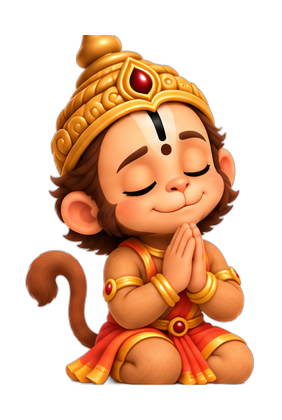
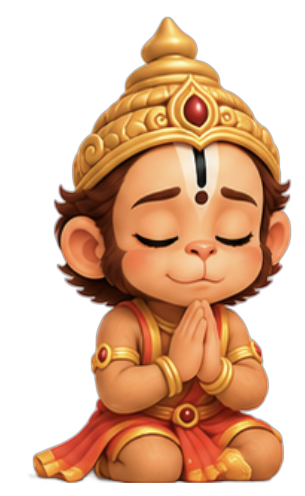
feat(stage1): Wire real chibi art into the Great Leap
Replace placeholder vector poses with the generated chibi Hanuman
sprite library (24 poses) plus the dawn-ocean background and the
Stage-1 lesson reward card. The scene now walks an 11-pose emotional
journey (prayer -> devotion -> clarity -> ... -> flight) as japa count
rises, with a real background that scrolls down on each climb.

Checkpoint before the premium-art polish pass.

diff --git a/game/src/Stage1Scene.js b/game/src/Stage1Scene.js
@@ -27,11 +27,26 @@ export class Stage1Scene extends Phaser.Scene {
     // a vector hero + gradient sky + text cards when a file is absent. We swallow
     // loader 404s so the console stays clean until real art is dropped in.
     this.load.image('s1_bg', ART + 'bg_greatleap.jpg');
-    this.load.image('h_idle', 'art/hanuman/idle_front.png');
-    this.load.image('h_jump', 'art/hanuman/jumping.png');
-    this.load.image('h_fly', 'art/hanuman/flying.png');
-    this.load.image('h_happy', 'art/hanuman/expr_happy.png');
-    this.load.image('s1_card', ART + 'summary_card.jpg');
+    // 10 expressive Stage-1 poses (the emotional journey of the Great Leap)
+    this.load.image('p_remember', 'art/hanuman/remembering_rama.png');
+    this.load.image('p_devotion', 'art/hanuman/devotion.png');
+    this.load.image('p_clarity', 'art/hanuman/clarity.png');
+    this.load.image('p_confidence', 'art/hanuman/confidence.png');
+    this.load.image('p_surrender', 'art/hanuman/surrender.png');
+    this.load.image('p_thinking', 'art/hanuman/thinking.png');
+    this.load.image('p_inspiration', 'art/hanuman/inspiration.png');
+    this.load.image('p_leaping', 'art/hanuman/leaping.png');
+    this.load.image('p_ready', 'art/hanuman/ready.png');
+    this.load.image('p_thinkrama', 'art/hanuman/thinking_of_rama.png');
+    // additional expression poses (broader library for the journey + reactions)
+    this.load.image('p_happy', 'art/hanuman/happy.png');
+    this.load.image('p_excited', 'art/hanuman/excited.png');
+    this.load.image('p_winking', 'art/hanuman/winking.png');
+    this.load.image('p_running', 'art/hanuman/running.png');
+    this.load.image('p_flying', 'art/hanuman/flying.png');
+    this.load.image('p_greeting', 'art/hanuman/greeting.png');
+    this.load.image('p_victory', 'art/hanuman/victory.png');
+    this.load.image('p_pointing', 'art/hanuman/pointing.png');
     this.load.image('s1_lesson', 'art/lessons/lesson1.jpg');
     this._missing = new Set();
     this.load.on('loaderror', (file) => { this._missing.add(file.key); });
@@ -58,9 +73,8 @@ export class Stage1Scene extends Phaser.Scene {
         this.bgTiles.push(img);
       }
       this.bgTileH = this.bgTiles[0].displayHeight;
-      // gentle dark vignette top+bottom so HUD text stays readable
-      this.add.rectangle(W / 2, 70, W, 200, 0x0a0620, 0.28).setDepth(1);
-      this.add.rectangle(W / 2, H - 90, W, 220, 0x0a0620, 0.34).setDepth(1);
+      // Full-bleed: NO dark overlay bands — the title + HUD pills carry their own
+      // readability (soft frosted backing), so the art shows edge to edge.
     } else {
       // fallback gradient sky
       const g = this.add.graphics().setDepth(0);
@@ -76,16 +90,23 @@ export class Stage1Scene extends Phaser.Scene {
 
     // --- HERO: flying Hanuman sprite (or vector fallback) ---
     this.baseY = H * 0.60;
-    if (haveHero) {
+    // The emotional journey of the Great Leap, told across the 11 japa:
+    // prayer → devotion → clarity → confidence → excitement → readiness → flight.
+    this.POSES = ['p_remember', 'p_thinkrama', 'p_devotion', 'p_clarity',
+                  'p_confidence', 'p_excited', 'p_inspiration', 'p_ready',
+                  'p_running', 'p_leaping', 'p_flying'];
+    const startPose = this.POSES.find((k) => this.textures.exists(k)) || null;
+    if (startPose) {
       // normalize every pose to the SAME display height so swaps don't jump
       this.heroH = H * 0.20;
       this.heroAura = this.add.circle(W * 0.5, this.baseY, this.heroH * 0.6, PALETTE.gold, 0.0)
         .setDepth(8).setBlendMode(Phaser.BlendModes.ADD);
-      this.heroShadow = this.add.image(W * 0.5 + 3, this.baseY + 6, 'h_fly')
+      this.heroShadow = this.add.image(W * 0.5 + 3, this.baseY + 6, startPose)
         .setDepth(9).setTint(0x0a0620).setAlpha(0.22);
-      this.hero = this.add.image(W * 0.5, this.baseY, 'h_fly').setDepth(10);
-      this._setPose('h_fly');
+      this.hero = this.add.image(W * 0.5, this.baseY, startPose).setDepth(10);
       this.usingSprite = true;
+      this._pose = null;
+      this._setPose(startPose);
     } else {
       this.h = new Hanuman(this, W * 0.5, this.baseY);
       this.h.baseY = this.baseY;
@@ -94,59 +115,96 @@ export class Stage1Scene extends Phaser.Scene {
       this.usingSprite = false;
     }
 
-    // --- HUD: STAGE NAME at top ---
-    this.title = this.add.text(W / 2, 78, 'Stage 1 · The Great Leap', {
-      fontFamily: 'Georgia, serif', fontSize: '22px', color: '#f1c40f', fontStyle: 'bold', stroke: '#160c2b', strokeThickness: 5,
-    }).setOrigin(0.5).setDepth(50);
-    this.tagline = this.add.text(W / 2, 106, 'Chant Ram to power Hanuman', {
-      fontFamily: 'system-ui', fontSize: '13px', color: '#ffe9a8', stroke: '#160c2b', strokeThickness: 3,
-    }).setOrigin(0.5).setDepth(50);
+    // Modern kids' UI: rounded playful font, soft floating pills, NO hard boxes.
+    const KID_FONT = '"Baloo 2","Fredoka",system-ui,sans-serif';
+
+    // --- STAGE TITLE (top) — floating soft pill, no border box ---
+    this._titlePill = this.add.graphics().setDepth(49);
+    this._roundRect(this._titlePill, W / 2 - 168, 54, 336, 62, 22, 0x2a1a4a, 0.34);
+    this.title = this.add.text(W / 2, 74, 'The Great Leap', {
+      fontFamily: KID_FONT, fontSize: '26px', color: '#fff6df', fontStyle: 'bold',
+    }).setOrigin(0.5).setDepth(50).setShadow(0, 2, '#000', 6, false, true);
+    this.tagline = this.add.text(W / 2, 100, 'Say Rāma’s name to help Hanumān leap the sea', {
+      fontFamily: KID_FONT, fontSize: '12px', color: '#fff', align: 'center', wordWrap: { width: W - 80 },
+    }).setOrigin(0.5).setDepth(50).setShadow(0, 1, '#3a2600', 3, false, true);
 
     // --- reward FX (procedural: sparkle + chime, no assets) ---
     this.fx = new Fx(this);
 
-    // ============ BOTTOM CONTROL PANEL ============
-    // Three labelled controls: Ram Mudra (mic) · Ram Japa (count) · Save/Exit
-    const panelY = H - 92;
-    this._panel = this.add.rectangle(W / 2, panelY, W - 24, 118, 0x160c2b, 0.55).setDepth(48)
-      .setStrokeStyle(1, PALETTE.gold, 0.35);
+    // ============ BOTTOM CONTROLS — floating soft pills, no container box ============
+    // Raised well clear of the very bottom edge (phone gesture/nav dead zone).
+    const py = H - 150;
 
-    // --- Ram Japa (count) — center, the sacred japa tally ---
-    this._japaLabel = this.add.text(W / 2, panelY - 40, 'RAM JAPA', {
-      fontFamily: 'system-ui', fontSize: '11px', color: '#ffd9a0', fontStyle: 'bold',
+    // two frosted stat bubbles side by side (Ram Japa · Ram Mudra)
+    this._statG = this.add.graphics().setDepth(48);
+    const bw = 150, bh = 68, gap = 14;
+    const lx = W / 2 - bw / 2 - gap / 2, rx = W / 2 + bw / 2 + gap / 2;
+    this._roundRect(this._statG, lx - bw / 2, py - bh / 2, bw, bh, 20, 0xfff3df, 0.92);
+    this._roundRect(this._statG, rx - bw / 2, py - bh / 2, bw, bh, 20, 0xfff3df, 0.92);
+
+    // Ram Japa (chant count) — left bubble
+    this._japaLabel = this.add.text(lx, py - 17, 'RAM JAPA', {
+      fontFamily: KID_FONT, fontSize: '11px', color: '#c0651b', fontStyle: 'bold', letterSpacing: 1,
     }).setOrigin(0.5).setDepth(50);
-    this.counter = this.add.text(W / 2, panelY - 18, `0 / ${TARGET}`, {
-      fontFamily: 'Georgia, serif', fontSize: '26px', color: '#fff3dd', fontStyle: 'bold', stroke: '#160c2b', strokeThickness: 4,
+    this.counter = this.add.text(lx, py + 9, `0 / ${TARGET}`, {
+      fontFamily: KID_FONT, fontSize: '26px', color: '#e8571e', fontStyle: 'bold',
     }).setOrigin(0.5).setDepth(50);
 
-    // --- Ram Mudra (mic control) — the chant button ---
-    this.startBtn = this.add.text(W / 2, panelY + 24, '🎤 Ram Mudra — tap, then say “Ram”', {
-      fontFamily: 'system-ui', fontSize: '15px', color: '#160c2b', backgroundColor: '#f1c40f',
-      padding: { x: 16, y: 9 }, fontStyle: 'bold',
-    }).setOrigin(0.5).setDepth(50).setInteractive();
+    // Ram Mudra (coins) — right bubble, with a DRAWN GOLD COIN (emoji renders silver on some OSes)
+    this._mudraLabel = this.add.text(rx, py - 17, 'RAM MUDRA', {
+      fontFamily: KID_FONT, fontSize: '11px', color: '#c0651b', fontStyle: 'bold', letterSpacing: 1,
+    }).setOrigin(0.5).setDepth(50);
+    this._coinG = this.add.graphics().setDepth(50);
+    const coinX = rx - 20, coinY = py + 9;
+    this._coinG.fillStyle(0xd98f00, 1); this._coinG.fillCircle(coinX, coinY, 12);   // rim
+    this._coinG.fillStyle(0xffc433, 1); this._coinG.fillCircle(coinX, coinY, 9.5);  // face
+    this._coinG.fillStyle(0xffe08a, 0.9); this._coinG.fillCircle(coinX - 3, coinY - 3, 3); // shine
+    this.mudra = this.add.text(rx + 8, py + 9, '0', {
+      fontFamily: KID_FONT, fontSize: '26px', color: '#e6a70f', fontStyle: 'bold',
+    }).setOrigin(0.5).setDepth(50);
+
+    // --- Chant button: big chunky rounded pill with soft shadow ---
+    const bY = H - 74, bW2 = 250, bH2 = 52;
+    this._btnG = this.add.graphics().setDepth(49);
+    this._roundRect(this._btnG, W / 2 - bW2 / 2, bY - bH2 / 2 + 4, bW2, bH2, 25, 0x000000, 0.18); // shadow
+    this._drawChantBtn = (color) => {
+      this._btnG.clear();
+      this._roundRect(this._btnG, W / 2 - bW2 / 2, bY - bH2 / 2 + 4, bW2, bH2, 25, 0x000000, 0.18);
+      this._roundRect(this._btnG, W / 2 - bW2 / 2, bY - bH2 / 2, bW2, bH2, 25, color, 1);
+    };
+    this._drawChantBtn(0xffb02e); // warm saffron
+    this.startBtn = this.add.text(W / 2, bY, '🎤  Tap, then say “Ram”', {
+      fontFamily: KID_FONT, fontSize: '17px', color: '#5a2d00', fontStyle: 'bold',
+      padding: { x: 14, y: 10 },
+    }).setOrigin(0.5).setDepth(50).setInteractive({ useHandCursor: true });
     if (!WordChant.supported) {
-      this.startBtn.setText('⚠ Voice not supported — try Chrome').setBackgroundColor('#c0392b').setColor('#fff');
+      this._drawChantBtn(0xe4572e);
+      this.startBtn.setText('Try Chrome for voice 🎤').setColor('#fff');
     }
     this.startBtn.on('pointerdown', () => this._startVoice());
 
-    // --- Save / Exit — top-right corner ---
-    this.exitBtn = this.add.text(W - 14, 20, '⏸ Save / Exit', {
-      fontFamily: 'system-ui', fontSize: '12px', color: '#fff3dd', backgroundColor: '#2a1a4a',
-      padding: { x: 10, y: 6 }, fontStyle: 'bold',
-    }).setOrigin(1, 0).setDepth(51).setInteractive();
+    // --- Save and Exit — soft rounded chip, top-right ---
+    this._exitG = this.add.graphics().setDepth(50);
+    this._roundRect(this._exitG, W - 122, 14, 108, 36, 16, 0xffffff, 0.22);
+    this.exitBtn = this.add.text(W - 68, 32, 'Save & Exit', {
+      fontFamily: KID_FONT, fontSize: '13px', color: '#fff', fontStyle: 'bold',
+      padding: { x: 8, y: 6 },
+    }).setOrigin(0.5).setDepth(51).setInteractive({ useHandCursor: true });
     this.exitBtn.on('pointerdown', () => this._saveExit());
 
-    // small status line under the panel
-    this.status = this.add.text(W / 2, H - 20, '', {
-      fontFamily: 'system-ui', fontSize: '11px', color: '#ffd9a0', stroke: '#160c2b', strokeThickness: 2,
-    }).setOrigin(0.5).setDepth(50);
-    this.heard = this.add.text(W / 2, panelY - 58, '', {
-      fontFamily: 'system-ui', fontSize: '12px', color: '#ffe9a8', stroke: '#160c2b', strokeThickness: 3,
-    }).setOrigin(0.5).setDepth(50);
-
+    // subtle status line (kept for permission hints only)
+    this.status = this.add.text(W / 2, H - 40, '', {
+      fontFamily: KID_FONT, fontSize: '11px', color: '#fff', align: 'center', wordWrap: { width: W - 60 },
+    }).setOrigin(0.5).setDepth(50).setShadow(0, 1, '#3a2600', 3, false, true);
     this.climbing = 0;   // frames of climb animation remaining
     this.bob = 0;        // idle hover phase
     this._auraTarget = 0.45; // visible glow floor from the start
+  }
+
+  // draw a filled rounded rectangle (soft pill) — the modern-kids UI primitive
+  _roundRect(g, x, y, w, h, r, color, alpha) {
+    g.fillStyle(color, alpha);
+    g.fillRoundedRect(x, y, w, h, r);
   }
 
   // Save progress + leave (Stage-1 MVP: persist japa count, then reload to menu/start)
@@ -174,9 +232,10 @@ export class Stage1Scene extends Phaser.Scene {
   _startVoice() {    this.word = new WordChant(
       (w) => this._onRam(),
       (s) => {
-        if (s === 'listening') { this.startBtn.setText('🎤 Listening — say “Ram”').setBackgroundColor('#2e9e5b').setColor('#fff'); this.status.setText('Say “Ram” to climb — other words won’t move Hanuman.'); }
-        else if (s === 'unsupported') this.status.setText('Voice not supported here — try Chrome.');
-        else if (s.startsWith('error')) this.status.setText('mic: ' + s);
+        if (s === 'listening') { this._drawChantBtn(0x3fbf6b); this.startBtn.setText('🎤 Listening — say “Ram”').setColor('#08351c'); this.status.setText('Say “Ram” to help Hanumān climb!'); }
+        else if (s === 'unsupported') this.status.setText('Voice works best in Chrome 🎤');
+        else if (s === 'mic-blocked') this.status.setText('🎤 Please allow the microphone, then tap again.');
+        // benign recoverable hiccups are swallowed in WordChant; ignore stray error strings
       }
     );
     this.word.start();
@@ -186,7 +245,7 @@ export class Stage1Scene extends Phaser.Scene {
     if (this.done) return;
     this.count++;
     this.counter.setText(`${this.count} / ${TARGET}`);
-    this.heard.setText('heard: “Ram” ✓ +1');
+    this.mudra.setText(`${this.count}`);
     this.climbing = 22;
 
     const hx = this._heroX(), hy = this._heroY();
@@ -194,6 +253,13 @@ export class Stage1Scene extends Phaser.Scene {
     const glow = Math.min(1, 0.3 + progress);
     if (this.usingSprite) this._auraTarget = glow;
     else this.h.setGlow(glow);
+
+    // walk the emotional journey: pick the pose for how far along we are
+    if (this.usingSprite && this.POSES && this.POSES.length) {
+      const idx = Math.min(this.POSES.length - 1,
+        Math.floor((this.count - 1) / TARGET * this.POSES.length));
+      this._setPose(this.POSES[idx]);
+    }
 
     // reward burst: sparkle + rising chime + a happy-face pop near the hero
     this.fx.sparkle(hx, hy - 6, 16);
@@ -233,9 +299,13 @@ export class Stage1Scene extends Phaser.Scene {
     this.fx.fanfare();
     this.fx.sparkle(this._heroX(), this._heroY(), 40);
 
+    // celebrate in the Victory pose before the lesson card rises
+    if (this.usingSprite && this.textures.exists('p_victory')) this._setPose('p_victory');
+
     // hide the in-play controls so they don't overlap the completion overlay
-    [this.startBtn, this.exitBtn, this.counter, this.heard, this.status,
-     this._japaLabel, this._panel].forEach((o) => o && o.setVisible(false));
+    [this.startBtn, this.exitBtn, this.counter, this.mudra, this.status,
+     this._japaLabel, this._mudraLabel, this._statG, this._btnG, this._exitG,
+     this._coinG, this._titlePill, this.title, this.tagline].forEach((o) => o && o.setVisible(false));
 
     const bloom = this.add.circle(this._heroX(), this._heroY(), 20, PALETTE.gold, 0.9).setDepth(20).setBlendMode(Phaser.BlendModes.ADD);
     this.tweens.add({ targets: bloom, radius: W, alpha: 0, duration: 1000 });
@@ -243,8 +313,8 @@ export class Stage1Scene extends Phaser.Scene {
     // dim overlay, then the premium summary card
     this.add.rectangle(W / 2, H / 2, W, H, 0x0a0620, 0.6).setDepth(29);
 
-    if (this.textures.exists('s1_lesson') || this.textures.exists('s1_card')) {
-      const cardKey = this.textures.exists('s1_lesson') ? 's1_lesson' : 's1_card';
+    if (this.textures.exists('s1_lesson')) {
+      const cardKey = 's1_lesson';
       const card = this.add.image(W / 2, H / 2 - 20, cardKey).setDepth(30);
       const target = Math.min(W - 36, H - 240);
       card.setScale(target / card.width);

diff --git a/game/src/main.js b/game/src/main.js
@@ -3,20 +3,32 @@ import { Stage1Scene } from './Stage1Scene.js';
 
 const gameEl = document.getElementById('game');
 
-const game = new Phaser.Game({
-  type: Phaser.AUTO,
-  parent: 'game',
-  width: 480,
-  height: 854, // ~9:16 portrait
-  backgroundColor: '#160c2b',
-  scale: {
-    mode: Phaser.Scale.FIT,
-    autoCenter: Phaser.Scale.CENTER_BOTH,
+function startGame() {
+  const game = new Phaser.Game({
+    type: Phaser.AUTO,
     parent: 'game',
     width: 480,
-    height: 854,
-  },
-  render: { antialias: true, roundPixels: false },
-  scene: [Stage1Scene],
-});
-window.__RCJ__ = game;
+    height: 854, // ~9:16 portrait
+    backgroundColor: '#160c2b',
+    scale: {
+      mode: Phaser.Scale.FIT,
+      autoCenter: Phaser.Scale.CENTER_BOTH,
+      parent: 'game',
+      width: 480,
+      height: 854,
+    },
+    render: { antialias: true, roundPixels: false },
+    scene: [Stage1Scene],
+  });
+  window.__RCJ__ = game;
+}
+
+// Wait for the rounded kids' font so text isn't drawn in a fallback first.
+if (document.fonts && document.fonts.ready) {
+  Promise.race([
+    document.fonts.load('700 26px "Baloo 2"').then(() => document.fonts.ready),
+    new Promise((r) => setTimeout(r, 1500)), // don't block forever on slow networks
+  ]).then(startGame);
+} else {
+  startGame();
+}

diff --git a/game/src/WordChant.js b/game/src/WordChant.js
@@ -68,8 +68,16 @@ export class WordChant {
       }
     };
     r.onerror = (ev) => {
-      this.onStatus('error:' + ev.error);
-      // 'no-speech'/'aborted'/'network' are recoverable — let onend restart us
+      // Web Speech fires 'aborted'/'no-speech'/'network' routinely during the
+      // continuous listen loop — these are recoverable and onend restarts us,
+      // so DON'T alarm the user. Only surface a genuine, actionable failure.
+      const benign = (ev.error === 'aborted' || ev.error === 'no-speech' || ev.error === 'network');
+      if (benign) return; // stay quiet; auto-restart handles it
+      if (ev.error === 'not-allowed' || ev.error === 'service-not-allowed') {
+        this.onStatus('mic-blocked');
+      } else {
+        this.onStatus('error:' + ev.error);
+      }
     };
     r.onend = () => {
       this._starting = false;

diff --git a/game/index.html b/game/index.html
@@ -6,6 +6,11 @@
   <meta name="theme-color" content="#1a0f2e" />
   <title>Ram Chant Journey</title>
 
+  <!-- Playful rounded kids' font -->
+  <link rel="preconnect" href="https://fonts.googleapis.com" />
+  <link rel="preconnect" href="https://fonts.gstatic.com" crossorigin />
+  <link href="https://fonts.googleapis.com/css2?family=Baloo+2:wght@500;700;800&display=swap" rel="stylesheet" />
+
   <!-- PWA -->
   <link rel="manifest" href="/manifest.webmanifest" />
   <link rel="icon" type="image/png" sizes="192x192" href="/icons/icon-192.png" />

diff --git a/docs/STAGE_THEMES.md b/docs/STAGE_THEMES.md
@@ -1,0 +1,23 @@
+# Ram Chant Journey — 7 Stage Themes (Sundara Kanda, MBTN Ch. 7)
+
+Canonical stage titles + sub-titles. **This is the single source of truth for
+stage naming.** Update here, then reflect into `game/src/stages.js`.
+(Provided by Venky 2026-09-07; may be revised.)
+
+| # | Emoji | Theme Title | Sub-title (the beat) |
+|---|-------|-------------|----------------------|
+| 1 | 🌺 | **Start with Rāma** | Hanumān Begins by Remembering Rāma. |
+| 2 | 🎯 | **Stay on Your Mission** | Hanumān Cannot Be Distracted from His Mission. |
+| 3 | 💪 | **Use Strength Wisely** | Hanumān Knows When to Become Huge — and When to Become Small. |
+| 4 | 💍 | **Carry Trust Faithfully** | Hanumān Finds Sītā — and Becomes the Perfect Messenger. |
+| 5 | 🦁 | **Think Beyond the Task** | Hanumān Decides to Show Laṅkā Who He Is. |
+| 6 | 🔥 | **Find the Opportunity** | Hanumān Turns Even Capture into an Opportunity. |
+| 7 | 🙏 | **Serve Without Pride** | Hanumān's Greatness Ends in Service — and Rāma's Grace. |
+
+## Notes
+- Stage 1's on-screen title is **"The Great Leap"** (the game/action name);
+  "Start with Rāma" is its *theme*. Decide per stage whether to show the
+  action-name or the theme-name as the big title. Current: Stage 1 shows
+  "The Great Leap" + the "Say Rāma's name…" tagline.
+- These 7 map to the 7 MBTN Ch. 7 beats (Hanumat-pratiyanam, Srimadhwacharya).
+- Lesson cards carry the deeper teaching quote per stage.
